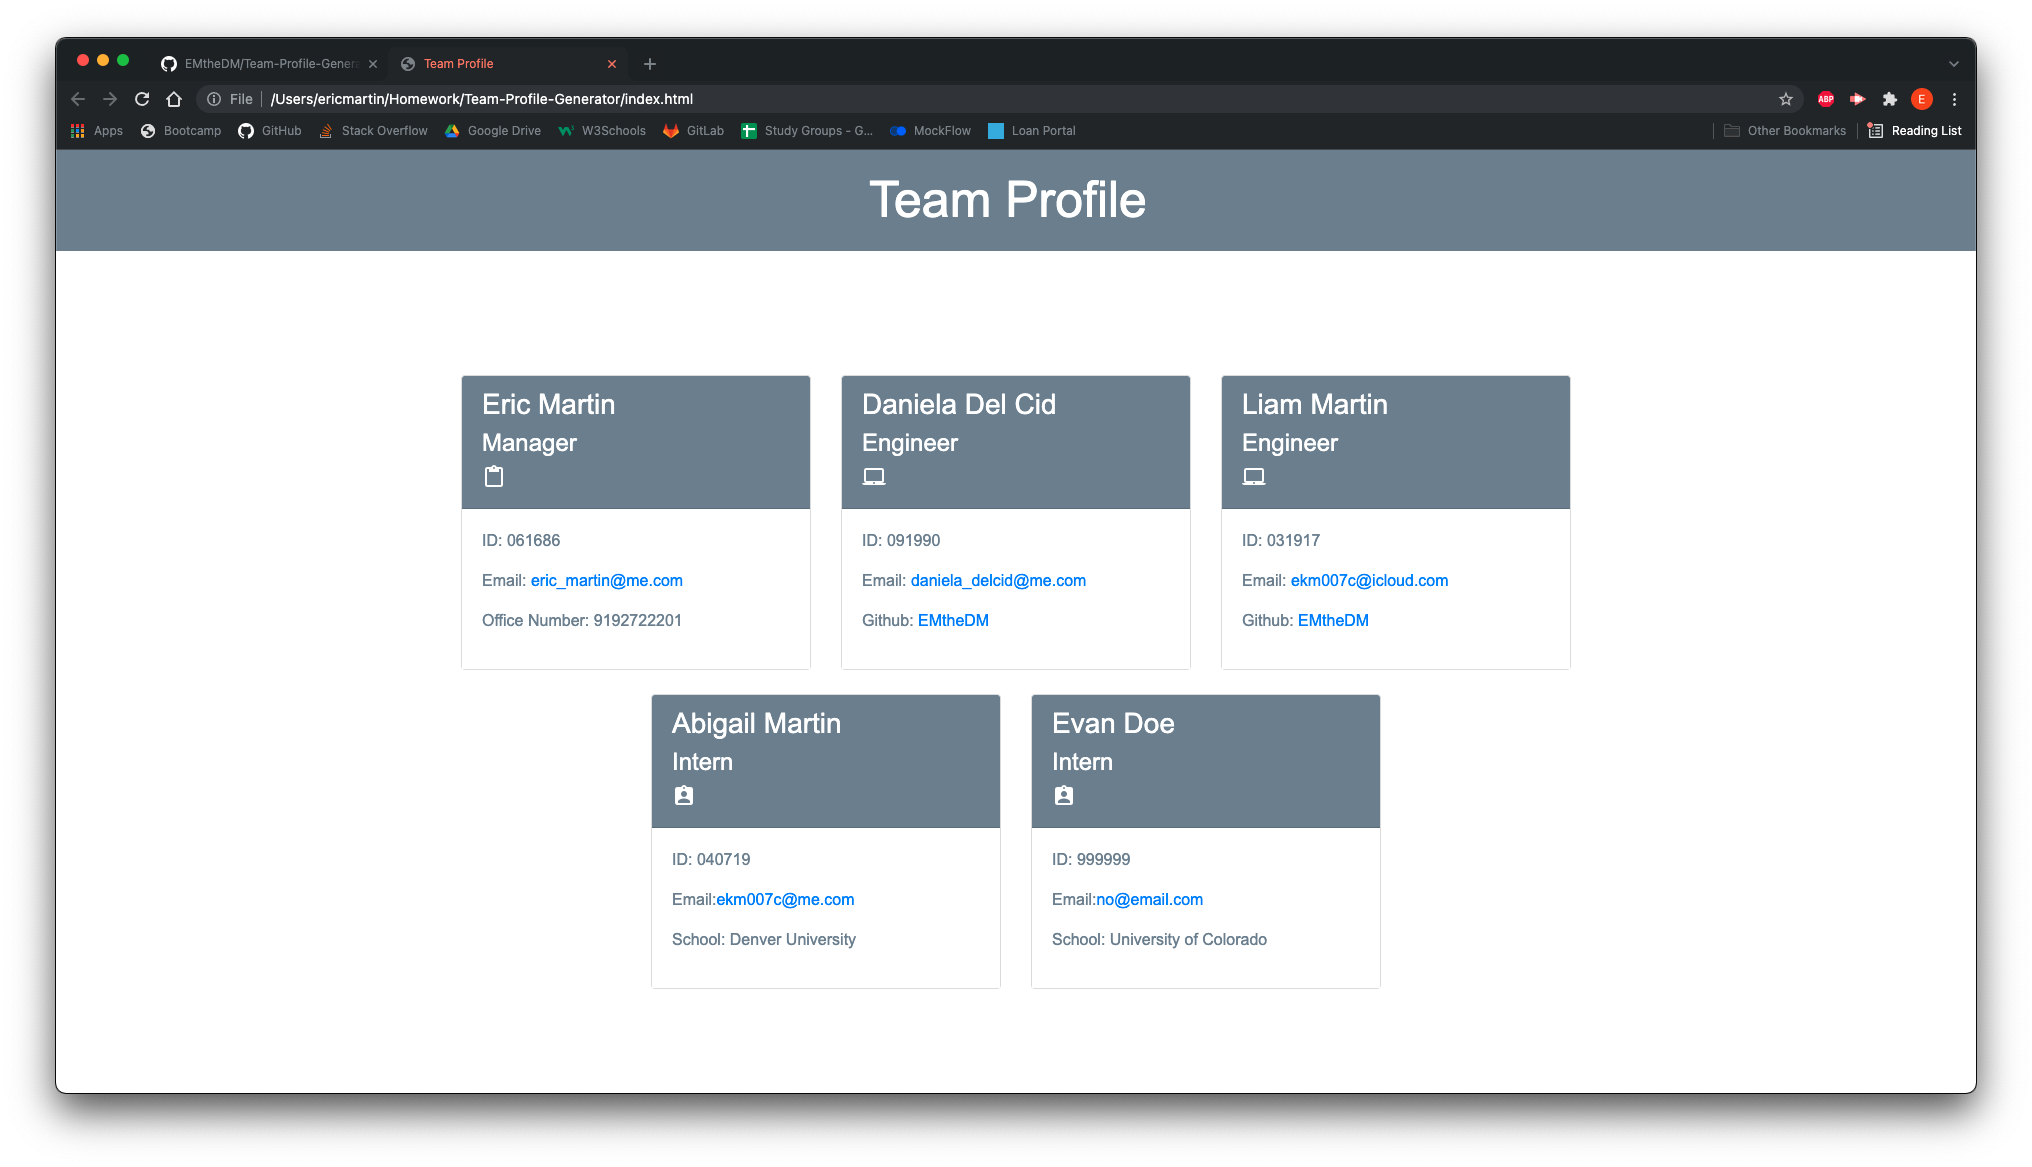
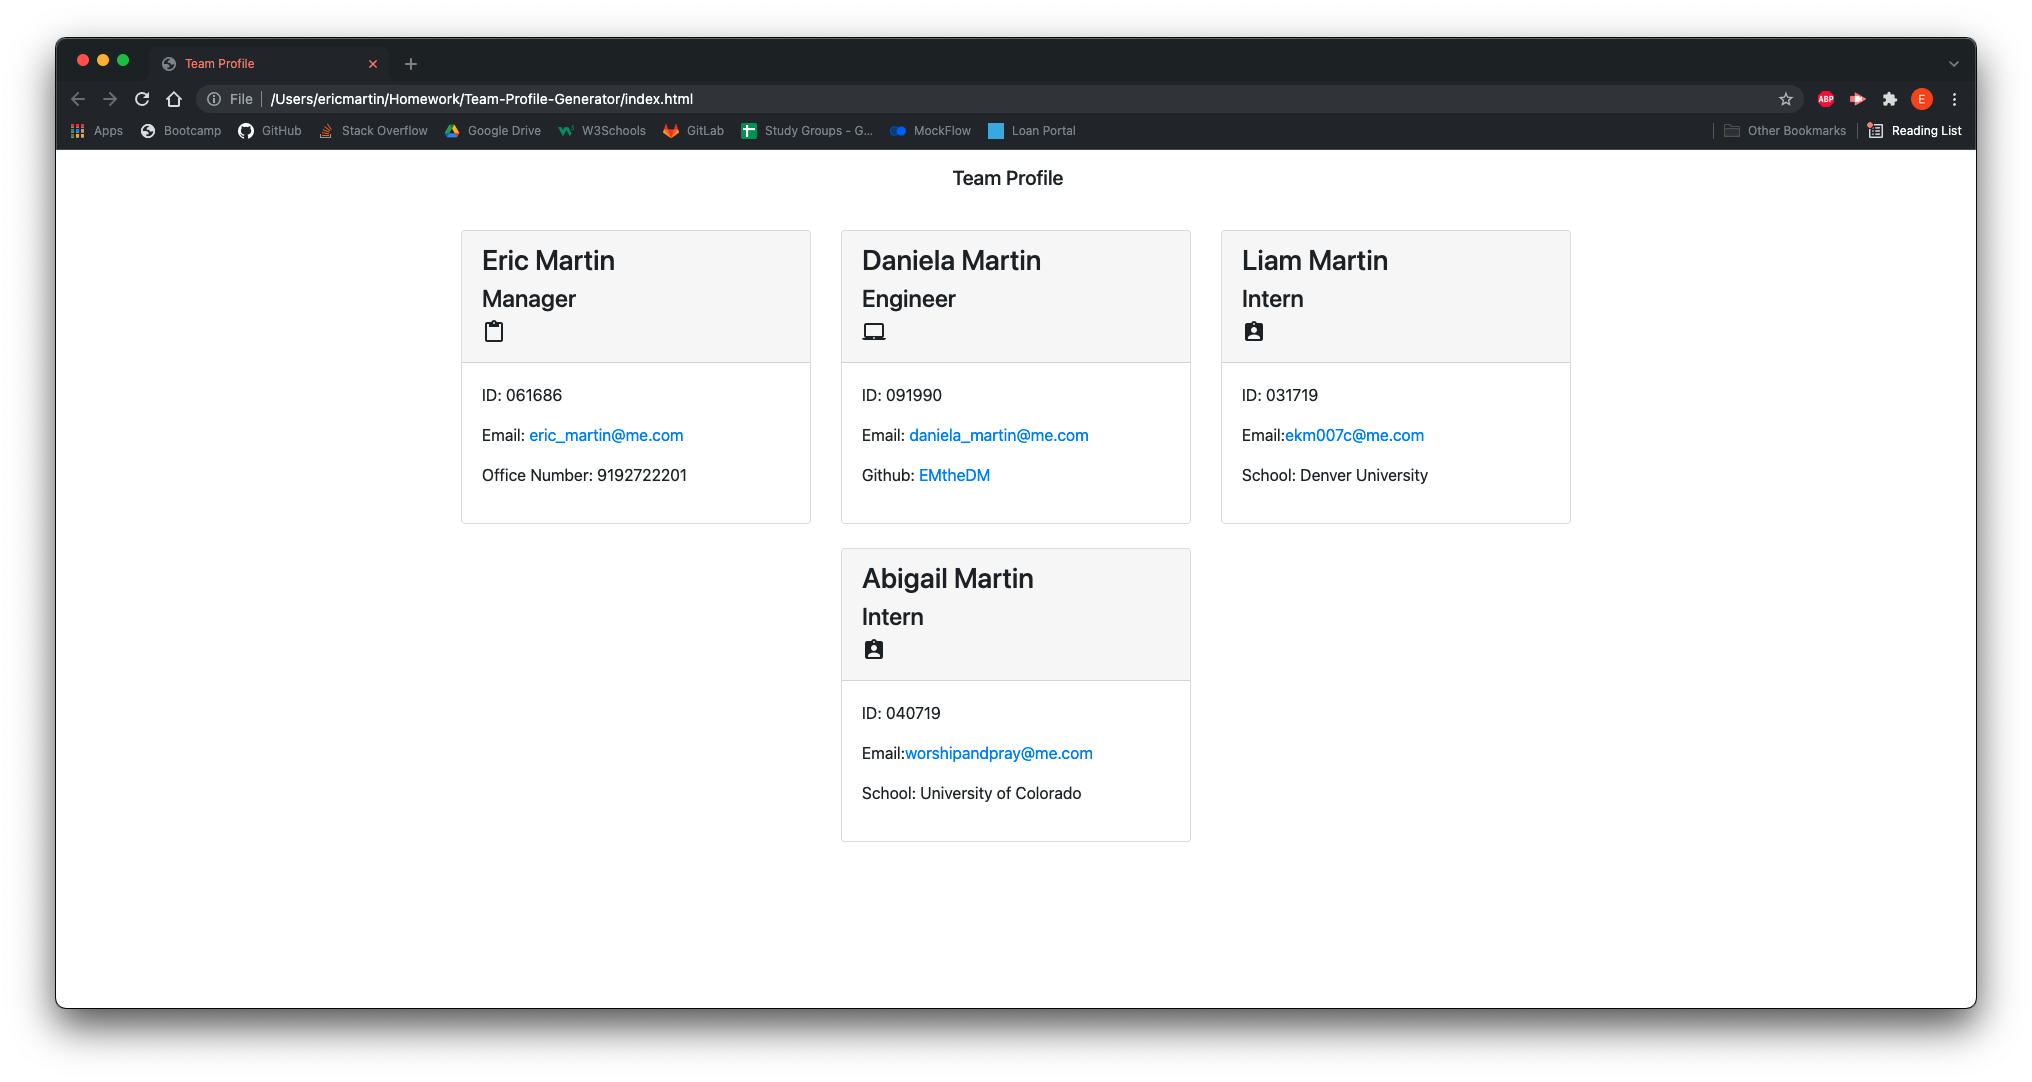
final commit

Changed region(s): [[0.0, 0.0305, 0.9921, 0.8235], [0.031, 0.915, 0.9611, 0.9455]]

diff --git a/index.html b/index.html
@@ -29,7 +29,7 @@
                 <h4>Manager</h4><i class="material-icons">content_paste</i>
             </div>
             <div class="card-body">
-                <p class="id">ID: 123456789</p>
+                <p class="id">ID: 061686</p>
                 <p class="email">Email: <a href="mailto:eric_martin@me.com">eric_martin@me.com</a></p>
                 <p class="office">Office Number: 9192722201</p>
             </div>
@@ -39,12 +39,12 @@
     <div class="col-4 mt-4">
         <div class="card h-100">
             <div class="card-header">
-                <h3>Daniela Del Cid</h3>
+                <h3>Daniela Martin</h3>
                 <h4>Engineer</h4><i class="material-icons">laptop_mac</i>
             </div>
             <div class="card-body">
-                <p class="id">ID: 987654321</p>
-                <p class="email">Email: <a href="mailto:eric_martin@me.com">eric_martin@me.com</a></p>
+                <p class="id">ID: 091990</p>
+                <p class="email">Email: <a href="mailto:daniela_martin@me.com">daniela_martin@me.com</a></p>
                 <p class="github">Github: <a href="https://github.com/EMtheDM" target="_blank">EMtheDM</a></p>
             </div>
         </div>
@@ -57,8 +57,8 @@
                 <h4>Intern</h4><i class="material-icons">assignment_ind</i>
             </div>
             <div class="card-body">
-                <p class="id">ID: 456789123</p>
-                <p class="email">Email:<a href="mailto:eric_martin@me.com">eric_martin@me.com</a></p>
+                <p class="id">ID: 031719</p>
+                <p class="email">Email:<a href="mailto:ekm007c@me.com">ekm007c@me.com</a></p>
                 <p class="school">School: Denver University</p>
             </div>
     </div>
@@ -71,8 +71,8 @@
                 <h4>Intern</h4><i class="material-icons">assignment_ind</i>
             </div>
             <div class="card-body">
-                <p class="id">ID: 987321654</p>
-                <p class="email">Email:<a href="mailto:eric_martin@me.com">eric_martin@me.com</a></p>
+                <p class="id">ID: 040719</p>
+                <p class="email">Email:<a href="mailto:worshipandpray@me.com">worshipandpray@me.com</a></p>
                 <p class="school">School: University of Colorado</p>
             </div>
     </div>

diff --git a/README.md b/README.md
@@ -13,7 +13,7 @@
   ## Usage
   Use inquirer from your terminal to answer the provided questions about your team.
   
-  View Video here: [Walkthrough Video](https://watch.screencastify.com/v/6EOam4y1zL8Knwlnhccm)
+  View Video here: [Walkthrough Video](https://watch.screencastify.com/v/hudOqrqp4d27oOkCaraC)
   
   ![Screenshot](/assets/screenshot.png)
   ## License
